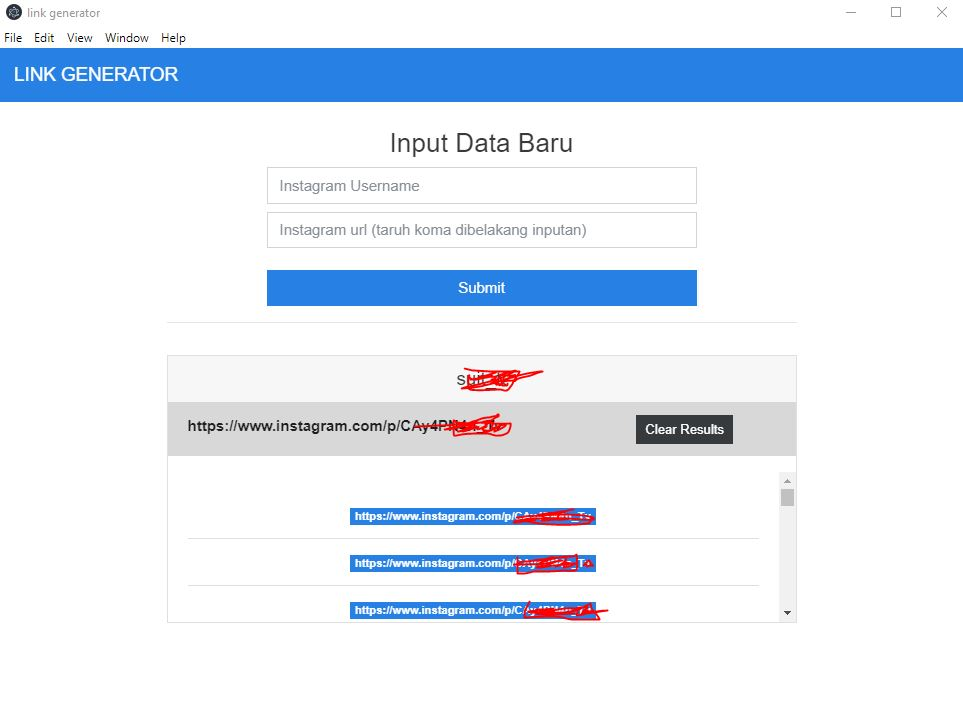
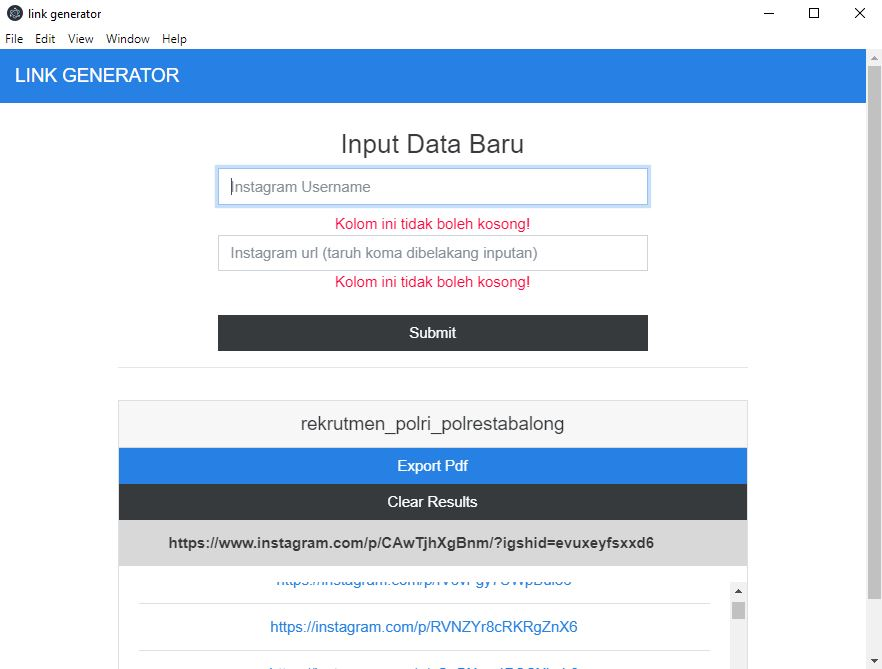
export pdf module added

diff --git a/src/components/Download.jsx b/src/components/Download.jsx
@@ -1,5 +1,6 @@
 import React, { useState, useEffect } from "react";
 import firebase from "../firebase";
+import ExportPdf from "./ExportPdf";
 
 function useUrls() {
   const [urls, setUrls] = useState([]);
@@ -55,27 +56,28 @@ const Download = () => {
           {urls.map((url) => (
             <div className="card mt-3 key={url.id}">
               <h5 className="card-header">{url.datauser.iguser}</h5>
+              <ExportPdf />
+              <button
+                className="btn btn-secondary btn-block my-2 my-sm-0"
+                onClick={() => deleteItem(url.id)}
+              >
+                Clear Results
+              </button>
               <div className="alert alert-dismissible alert-secondary">
-                <strong className="float-left">
+                <strong className="text-secondary">
                   {url.datauser.igpost.split(",")}
                 </strong>
-                <button
-                  className="btn btn-sm btn-secondary float-right"
-                  onClick={() => deleteItem(url.id)}
-                >
-                  Clear Results
-                </button>
               </div>
               <div className="card-body">
                 <ul className="list-group list-group-flush">
                   {url.igduplicate.map((ig, i) => (
                     <li keys={i} className="list-group-item">
                       <a href={ig} target="_blank">
-                        <span className="text-danger">
+                        <span className="text-primary">
                           https://instagram.com/p/
                           {ig.replace(
                             ig.substring(0, ig.length - 1),
-                            makeid(5)
+                            makeid(15)
                           )}
                         </span>
                       </a>

diff --git a/src/components/ExportPdf.jsx b/src/components/ExportPdf.jsx
@@ -1,0 +1,20 @@
+import React from "react";
+
+const ExportPdf = () => {
+  const exportPdf = () => {
+    console.log("Export Success!");
+  };
+
+  return (
+    <div>
+      <button
+        className="btn btn-primary btn-block my-2 my-sm-0"
+        onClick={() => exportPdf()}
+      >
+        Export Pdf
+      </button>
+    </div>
+  );
+};
+
+export default ExportPdf;

diff --git a/src/components/Content.jsx b/src/components/Content.jsx
@@ -144,7 +144,7 @@ const Content = (props) => {
             <br />
             <input
               type="submit"
-              className="btn btn-primary btn-block my-2 my-sm-0"
+              className="btn btn-secondary btn-block my-2 my-sm-0"
               onClick={props.myContentFunc}
             />
           </form>
